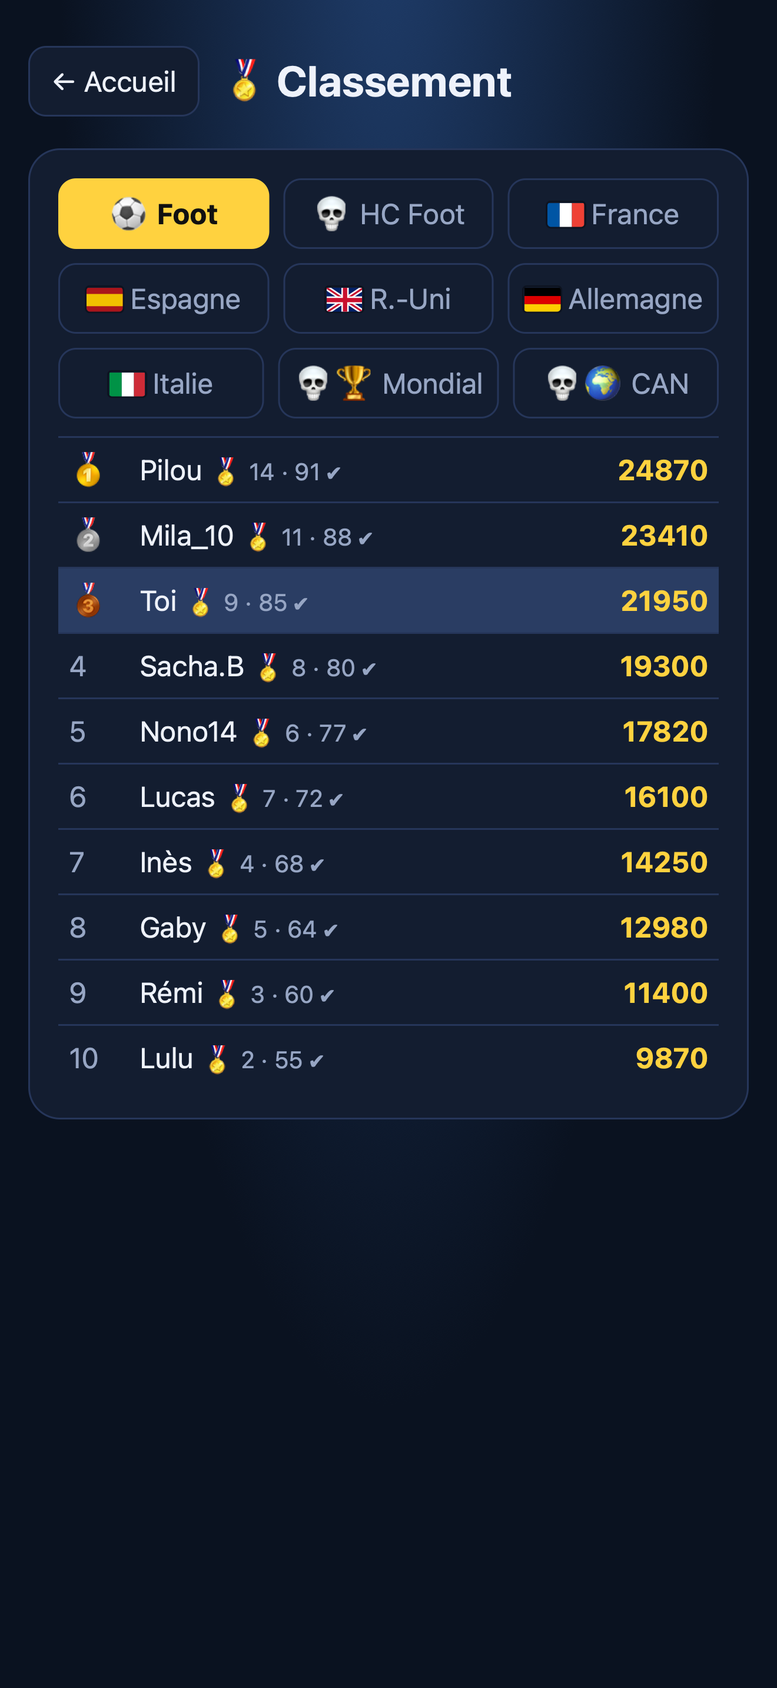
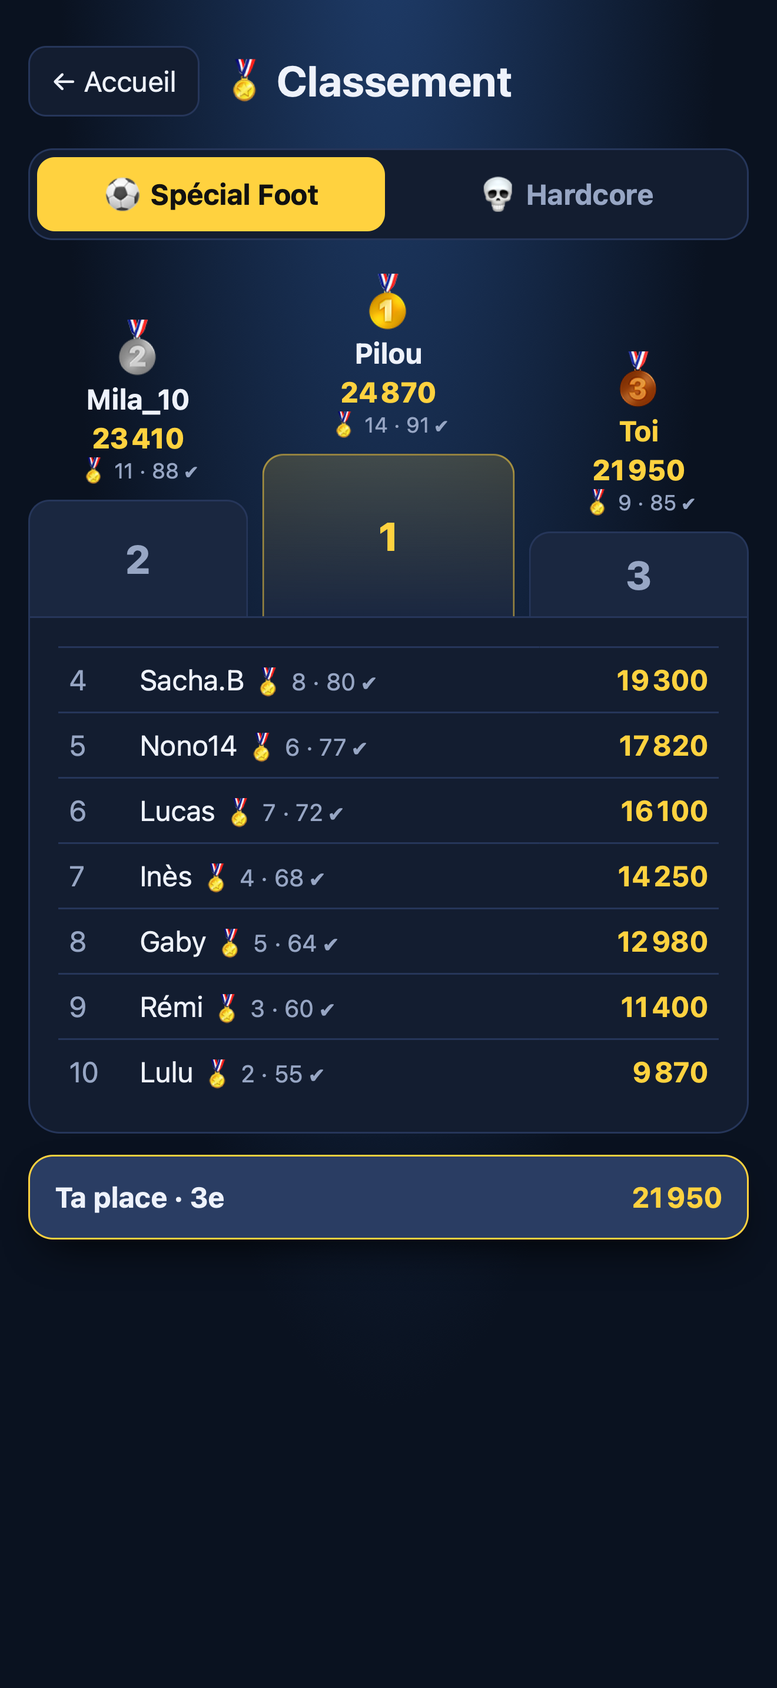
feat: fonctions iOS natives (vibrations, feuille de partage, écran Game Center, demande d'avis, raccourcis de l'icône) et nouvelle page Classement

Changed region(s): [[0.0311, 0.0931, 0.9318, 0.6517], [0.0311, 0.6517, 0.9629, 0.7448]]

diff --git a/SportQuizApp/Game/index.html b/SportQuizApp/Game/index.html
@@ -96,9 +96,33 @@
   /* classement */
   .card { background:var(--card); border:1px solid var(--line); border-radius:18px; padding:16px; margin-top:20px; }
   .card h2 { margin:0 0 10px; font-size:1.2rem; }
-  .tabs { display:flex; flex-wrap:wrap; gap:8px; margin-bottom:10px; }
-  .tabs button { flex:1 1 30%; white-space:nowrap; padding:8px; border-radius:10px; border:1px solid var(--line); background:transparent; color:var(--dim); cursor:pointer; }
-  .tabs button.on { background:var(--acc); color:#111; border-color:var(--acc); font-weight:700; }
+  /* Classement : Spécial Foot / Hardcore, puis une ligne de pays qui défile, podium, liste et ta place toujours visible */
+  .seg { display:grid; grid-template-columns:1fr 1fr; gap:4px; padding:4px; border-radius:14px; background:var(--card); border:1px solid var(--line); }
+  .seg button { padding:10px; border:0; border-radius:10px; background:transparent; color:var(--dim); font-size:1rem; font-weight:700; cursor:pointer; }
+  .seg button.on { background:var(--acc); color:#111; }
+  .chips { display:flex; gap:8px; overflow-x:auto; padding:10px 2px 2px; scrollbar-width:none;
+           -webkit-mask-image:linear-gradient(90deg, #000 85%, transparent); mask-image:linear-gradient(90deg, #000 85%, transparent); }
+  .chips::-webkit-scrollbar { display:none; }
+  .chips button { flex:0 0 auto; display:flex; align-items:center; gap:6px; padding:8px 14px; border-radius:999px; border:1px solid var(--line);
+                  background:var(--card); color:var(--txt); white-space:nowrap; cursor:pointer; }
+  .chips button.on { background:var(--acc); color:#111; border-color:var(--acc); font-weight:700; }
+  .chips button:last-child { margin-right:40px; }   /* le dernier pays reste lisible malgré le fondu */
+  .podium { display:grid; grid-template-columns:1fr 1.15fr 1fr; align-items:end; gap:8px; margin:18px 0 0; }
+  .pod { min-width:0; text-align:center; }
+  .pod b { display:block; font-size:2rem; line-height:1.1; }
+  .pod strong { display:block; overflow:hidden; text-overflow:ellipsis; white-space:nowrap; }
+  .pod .pts { color:var(--acc); font-weight:800; }
+  .pod small { display:block; color:var(--dim); font-size:.75rem; }
+  .pod .step { margin-top:8px; border-radius:12px 12px 0 0; border:1px solid var(--line); border-bottom:0; background:var(--card2);
+               display:grid; place-items:center; color:var(--dim); font-size:1.4rem; font-weight:800; }
+  .pod.p1 .step { height:92px; border-color:#ffd23f88; background:linear-gradient(#ffd23f2e, var(--card2)); color:var(--acc); }
+  .pod.p2 .step { height:66px; }
+  .pod.p3 .step { height:48px; }
+  .pod.me strong { color:var(--acc); }
+  #ranks .card { margin-top:0; border-top-left-radius:0; border-top-right-radius:0; }
+  #myRank { position:sticky; bottom:max(12px, env(safe-area-inset-bottom)); display:flex; align-items:center; gap:10px; margin-top:12px;
+            padding:12px 14px; border-radius:14px; background:#2a3d63; border:1px solid var(--acc); box-shadow:0 10px 30px -10px #000; font-weight:700; }
+  #myRank .pts { margin-left:auto; color:var(--acc); }
   table { width:100%; border-collapse:collapse; }
   td { padding:7px 6px; border-top:1px solid var(--line); }
   td:first-child { width:2.5em; color:var(--dim); }
@@ -190,6 +214,16 @@
            background:var(--acc); color:#111; font-weight:800; box-shadow:0 10px 30px -8px #000; transition:transform .35s; }
   #toast.on { transform:translate(-50%, 0); }
   #toast b { font-size:1.4rem; }
+  .setting { display:flex; align-items:center; justify-content:space-between; gap:12px; cursor:pointer; font-weight:700; }
+  .setting small { display:block; color:var(--dim); font-weight:400; font-size:.85rem; }
+  .toggle { appearance:none; -webkit-appearance:none; flex:0 0 auto; width:51px; height:31px; margin:0; border-radius:999px; background:var(--line);
+            position:relative; cursor:pointer; transition:background .2s; }
+  .toggle::after { content:''; position:absolute; top:2px; left:2px; width:27px; height:27px; border-radius:50%; background:#fff;
+                   box-shadow:0 2px 4px #0006; transition:transform .2s; }
+  .toggle:checked { background:var(--ok); }
+  .toggle:checked::after { transform:translateX(20px); }
+  .app, .app * { -webkit-user-select:none; user-select:none; -webkit-touch-callout:none; }
+  .app input { -webkit-user-select:text; user-select:text; }
   /* téléphone : la partie occupe toute la hauteur — infos en haut, question au centre,
      réponses en bas sous le pouce ; les écrans de fin sont centrés */
   @media (pointer: coarse) {
@@ -231,6 +265,10 @@
     <div class="who"><span class="avatar" id="whoAvatar">👤</span><span><strong id="whoName"></strong><small id="whoCount"></small></span></div>
     <button class="rankbtn" id="goBadges">🏅 Mes badges <small id="badgesCount"></small></button>
     <a class="rankbtn" id="contact" style="font-size:1rem;text-align:center;text-decoration:none;color:inherit">✉ Signaler un bug ou proposer une idée</a>
+    <div class="card hidden" id="settings">
+      <h2>⚙ Réglages</h2>
+      <label class="setting"><span>📳 Vibrations<small>Bonne réponse, erreur, badge débloqué</small></span><input type="checkbox" class="toggle" id="hapticsOn"></label>
+    </div>
     <div class="card hidden" id="account">
       <div id="accNew">
         <h2>💾 Garde tes badges</h2>
@@ -259,13 +297,14 @@
 
   <section id="ranks" class="hidden">
     <div class="head"><button class="back" data-back="home">← Accueil</button><h2>🏅 Classement</h2></div>
-    <div class="card" style="margin-top:0">
-      <div class="tabs">
-        <button data-tab="foot" class="on">⚽ Foot</button><button data-tab="hardfoot">💀 HC Foot</button>
-        <button data-tab="hardfr" data-flag="fr">France</button><button data-tab="hardes" data-flag="es">Espagne</button><button data-tab="harduk" data-flag="uk">R.-Uni</button><button data-tab="hardde" data-flag="de">Allemagne</button><button data-tab="hardit" data-flag="it">Italie</button><button data-tab="hardwc">💀🏆 Mondial</button><button data-tab="hardcan">💀🌍 CAN</button>
-      </div>
-      <table id="board"></table>
+    <div class="seg"><button data-kind="foot" class="on">⚽ Spécial Foot</button><button data-kind="hard">💀 Hardcore</button></div>
+    <div class="chips hidden" id="hardChips">
+      <button data-board="hardfoot">⚽ Tout le foot</button><button data-board="hardfr" data-flag="fr">France</button><button data-board="hardes" data-flag="es">Espagne</button><button data-board="harduk" data-flag="uk">Royaume-Uni</button><button data-board="hardde" data-flag="de">Allemagne</button><button data-board="hardit" data-flag="it">Italie</button><button data-board="hardwc">🏆 Mondial</button><button data-board="hardcan">🌍 CAN</button>
     </div>
+    <div class="podium" id="podium"></div>
+    <div class="card"><table id="board"></table></div>
+    <div id="myRank" class="hidden"></div>
+    <button class="btn alt hidden" id="gcBoard" style="width:100%;margin-top:12px">🎮 Ouvrir dans Game Center</button>
   </section>
 
   <section id="pick" class="hidden">
@@ -317,6 +356,7 @@
       <p id="saveMsg"></p>
       <table id="endBoard"></table>
     </div>
+    <button class="btn alt" id="share" style="width:100%;margin-top:12px">📤 Partager mon score</button>
     <div class="row"><button class="btn" id="again">Rejouer</button><button class="btn alt" id="toHome">Accueil</button></div>
   </section>
 
@@ -363,6 +403,11 @@ let mode, deck, idx, score, good, lives, timer, next, t0, saved, advClub, stage,
 
 // Dans l'app iOS, le classement passe par Game Center : pas de pseudo, le score part tout seul.
 const GC = !!window.__quizGC;
+// Fonctions natives de l'app iOS (vibrations, partage, Game Center, avis) ; sans effet sur le site web.
+const nativeApp = (type, data = {}) => {
+  if (type === 'haptic' && !load('quiz-haptics', true)) return;   // vibrations coupées dans les réglages du profil
+  try { webkit.messageHandlers.app.postMessage({ type, ...data }); } catch {}
+};
 let gcName = null;
 
 // Questions déjà posées sur ce navigateur : on ne les repose qu'une fois toutes les autres du même lot épuisées.
@@ -473,11 +518,13 @@ function answer(btn, ok, lvl) {
     const pts = points(lvl, left);
     score += pts; good++;
     $('score').textContent = score;
+    nativeApp('haptic', { kind: 'success' });
     $('feedback').textContent = `✅ Bravo ! +${pts} points`;
     $('feedback').style.color = 'var(--ok)';
   } else {
     btn?.classList.add('ko');
     lives--;
+    nativeApp('haptic', { kind: lives ? 'warning' : 'error' });
     let msg = btn ? '❌ Raté !' : '⏱ Temps écoulé !';
     if (mode === 'foot') { // l'erreur coûte la moitié de la valeur de la question
       const lost = Math.min(score, lvl * 50);
@@ -507,6 +554,9 @@ function finish() {
   }
   if (mode === 'adv') return advFinish();
   $('final').textContent = score + ' pts';
+  // Demande d'avis App Store après une belle partie, à partir de la 3e (iOS décide s'il l'affiche, 3 fois par an au plus)
+  const played = load('quiz-played', 0) + 1; store('quiz-played', played);
+  if (played >= 3 && (mode in HARD ? good >= 10 : good / deck.length >= .6)) setTimeout(() => nativeApp('review'), 1500);
   if (mode in HARD) {
     const msg = good >= 25 ? 'Inhumain ! 🐐' : good >= 12 ? 'Énorme ! 🔥' : good >= 5 ? 'Solide ! 💪' : `Le ${NAMES[mode]} porte bien son nom… 💀`;
     $('summary').textContent = `${good} bonne${good > 1 ? 's' : ''} réponse${good > 1 ? 's' : ''} d'affilée — ${msg} (${NAMES[mode]})`;
@@ -907,6 +957,7 @@ function unlock(id) {
   const [, icon, title] = BADGES.find(b => b[0] === id);
   $('toastIcon').innerHTML = flag(icon); $('toastText').textContent = `Badge débloqué : ${title}`;
   $('toast').classList.add('on');
+  nativeApp('haptic', { kind: 'success' });
   clearTimeout(toastTimer); toastTimer = setTimeout(() => $('toast').classList.remove('on'), 3000);
   reportBadges([id]);
   syncProfile();
@@ -1015,6 +1066,44 @@ function renderBoard(rows, table, me, m) {
     : '<tr><td colspan="3" class="empty">Personne pour l\'instant… à toi de jouer !</td></tr>';
 }
 
+// Page Classement : podium pour le top 3, liste à partir du 4e, et la place du joueur toujours visible en bas
+const fmt = n => Number(n).toLocaleString('fr-FR');
+const BOARDS = ['foot', 'hardfoot', 'hardfr', 'hardes', 'harduk', 'hardde', 'hardit', 'hardwc', 'hardcan'];
+let boardMode = 'foot', lastHard = 'hardfoot', boardReq = 0;
+function renderRanks(rows) {
+  const me = playerName(), mine = rows.findIndex(r => me && nameKey(r.name) === nameKey(me));
+  const sub = r => `🏅 ${r.badges || 0} · ${r.good} ✔`;
+  $('podium').innerHTML = rows.length ? [1, 0, 2].map(i => rows[i] ? `<div class="pod p${i + 1}${i === mine ? ' me' : ''}"><b>${['🥇', '🥈', '🥉'][i]}</b>` +
+    `<strong>${esc(rows[i].name)}</strong><span class="pts">${fmt(rows[i].score)}</span><small>${sub(rows[i])}</small><div class="step">${i + 1}</div></div>` : '<div></div>').join('') : '';
+  $('board').innerHTML = !rows.length ? '<tr><td colspan="3" class="empty">Personne pour l\'instant… à toi de jouer !</td></tr>'
+    : rows.slice(3).map((r, k) => `<tr class="${k + 3 === mine ? 'me' : ''}"><td>${k + 4}</td><td>${esc(r.name)} <small style="color:var(--dim)">${sub(r)}</small></td>` +
+      `<td>${fmt(r.score)}</td></tr>`).join('');
+  $('board').closest('.card').classList.toggle('hidden', rows.length > 0 && rows.length <= 3);
+  $('myRank').classList.toggle('hidden', mine < 0 && !(GC && !me));
+  $('myRank').innerHTML = mine >= 0 ? `<span>Ta place · ${mine + 1}${mine ? 'e' : 'er'}</span><span class="pts">${fmt(rows[mine].score)}</span>`
+    : 'Connecte-toi à Game Center pour apparaître au classement';
+}
+async function openBoard(m) {
+  boardMode = m; if (m !== 'foot') lastHard = m;
+  document.querySelectorAll('[data-kind]').forEach(b => b.classList.toggle('on', (b.dataset.kind === 'foot') === (m === 'foot')));
+  $('hardChips').classList.toggle('hidden', m === 'foot');
+  document.querySelectorAll('[data-board]').forEach(b => {
+    b.classList.toggle('on', b.dataset.board === m);
+    if (b.dataset.board === m) b.scrollIntoView({ block: 'nearest', inline: 'nearest' });
+  });
+  const req = ++boardReq;   // un changement rapide d'onglet ne laisse pas une ancienne réponse écraser la nouvelle
+  $('podium').innerHTML = ''; $('myRank').classList.add('hidden'); $('board').closest('.card').classList.remove('hidden');
+  $('board').innerHTML = '<tr><td class="empty">Chargement…</td></tr>';
+  try {
+    const r = await fetch('api/scores?mode=' + m);
+    if (!r.ok) throw 0;
+    const rows = await r.json();
+    if (req === boardReq) renderRanks(rows);
+  } catch {
+    if (req === boardReq) $('board').innerHTML = `<tr><td class="empty">${GC ? 'Classement Game Center indisponible' : 'Classement indisponible (serveur hors ligne)'}</td></tr>`;
+  }
+}
+
 async function loadBoard(m, table, me) {
   try {
     const r = await fetch('api/scores?mode=' + m);
@@ -1051,10 +1140,7 @@ async function sendScore(name) {
 /* ---------- Navigation ---------- */
 const goHome = () => show('home');
 // Classement : ouvre sur l'onglet du dernier mode joué (Foot par défaut)
-$('goRanks').onclick = () => {
-  show('ranks');
-  (document.querySelector(`[data-tab="${mode}"]`) || document.querySelector('[data-tab="foot"]')).click();
-};
+$('goRanks').onclick = () => { show('ranks'); openBoard(BOARDS.includes(mode) ? mode : 'foot'); };
 document.querySelectorAll('[data-mode]').forEach(b => b.onclick = () => start(b.dataset.mode));
 $('goHard').onclick = openPick; // Hardcore : foot ou pays (les questions des autres sports restent dans questions/<sport>.json)
 document.querySelectorAll('[data-flag]').forEach(b => b.innerHTML = flag(b.dataset.flag) + ' ' + esc(b.textContent));
@@ -1086,11 +1172,26 @@ $('goAdv').onclick = openLands;
 document.querySelectorAll('[data-back]').forEach(b => b.onclick = () => show(b.dataset.back));
 $('advBack').onclick = openClubs;
 $('advMap').onclick = () => openAdv(advClub);
-document.querySelectorAll('[data-tab]').forEach(b => b.onclick = () => {
-  document.querySelectorAll('[data-tab]').forEach(x => x.classList.toggle('on', x === b));
-  loadBoard(b.dataset.tab, $('board'));
-});
+document.querySelectorAll('[data-kind]').forEach(b => b.onclick = () => openBoard(b.dataset.kind === 'foot' ? 'foot' : lastHard));
+document.querySelectorAll('[data-board]').forEach(b => b.onclick = () => openBoard(b.dataset.board));
+$('gcBoard').classList.toggle('hidden', !GC);
+// Réglages du profil (app seulement : les vibrations n'existent pas sur le site)
+$('settings').classList.toggle('hidden', !GC);
+$('hapticsOn').checked = load('quiz-haptics', true);
+$('hapticsOn').onchange = () => { store('quiz-haptics', $('hapticsOn').checked); nativeApp('haptic', { kind: 'light' }); };
+$('gcBoard').onclick = () => nativeApp('gameCenter', { mode: boardMode });
+// Raccourcis de l'icône de l'app (appui long sur l'écran d'accueil de l'iPhone)
+window.__quizShortcut = a => ({ foot: () => start('foot'), hard: openPick, adv: openLands, ranks: () => $('goRanks').click() })[a]?.();
 $('again').onclick = () => start(mode);
+// Partage du score : feuille de partage iOS dans l'app, partage du navigateur (ou copie) sur le web
+const APP_URL = 'https://charlit.github.io/sportquiz/';
+$('share').onclick = () => {
+  const text = mode in HARD ? `💀 ${good} bonne${good > 1 ? 's' : ''} réponse${good > 1 ? 's' : ''} d'affilée en ${NAMES[mode]} (${score} points) sur Football Quiz ! Tu fais mieux ?`
+                            : `⚽ ${score} points au ${NAMES[mode]} sur Football Quiz (${good} bonnes réponses) ! Tu fais mieux ?`;
+  if (GC) return nativeApp('share', { text, url: APP_URL });
+  if (navigator.share) return navigator.share({ text, url: APP_URL }).catch(() => {});
+  navigator.clipboard?.writeText(`${text} ${APP_URL}`).then(() => { $('share').textContent = '✅ Copié !'; setTimeout(() => $('share').textContent = '📤 Partager mon score', 2000); });
+};
 // Abandon en 2 appuis (pas de confirm() : la WebView de l'app iOS ne l'affiche pas et répond « non »)
 let quitTimer;
 const disarmQuit = () => { clearTimeout(quitTimer); $('quit').classList.remove('armed'); $('quit').textContent = '✕'; };
@@ -1131,6 +1232,7 @@ if (GC) {
     .then(q => { const ok = validQuestions(q); if (ok) { Object.assign(QUESTIONS, ok); store('quiz-questions', ok); } })
     .catch(() => {});
 }
+if (GC) document.documentElement.classList.add('app');
 if (GC) {                                        // l'app prévient quand le joueur Game Center change
   $('saveForm').classList.add('hidden');
   document.querySelector('#end h2').textContent = 'Classement';

diff --git a/SportQuizApp/ContentView.swift b/SportQuizApp/ContentView.swift
@@ -1,6 +1,7 @@
 import SwiftUI
 import WebKit
 import GameKit
+import StoreKit
 
 // Le quiz est embarqué dans l'app (Game/index.html + questions.js) ; le classement passe par
 // Game Center, un classement par mode. Ces classements doivent exister dans App Store Connect
@@ -64,7 +65,10 @@ struct QuizWebView: UIViewRepresentable {
             config.userContentController.addUserScript(
                 WKUserScript(source: diagnosticScript, injectionTime: .atDocumentStart, forMainFrameOnly: true))
         }
+        config.userContentController.add(context.coordinator, name: "app")   // vibrations, partage, Game Center, avis
         let webView = WKWebView(frame: .zero, configuration: config)
+        webView.allowsLinkPreview = false   // pas d'aperçu de lien sur un appui long : comportement d'app, pas de page web
+        context.coordinator.webView = webView
         webView.uiDelegate = context.coordinator
         webView.navigationDelegate = context.coordinator
         webView.isOpaque = false
@@ -81,8 +85,30 @@ struct QuizWebView: UIViewRepresentable {
     func updateUIView(_ webView: WKWebView, context: Context) {}
 
     // Sans ce délégué, confirm() (« Abandonner la partie ? ») répond toujours non dans une WKWebView.
-    final class Coordinator: NSObject, WKUIDelegate, WKNavigationDelegate, WKScriptMessageHandler {
+    final class Coordinator: NSObject, WKUIDelegate, WKNavigationDelegate, WKScriptMessageHandler, GKGameCenterControllerDelegate {
         let scheme = QuizSchemeHandler()
+        weak var webView: WKWebView?
+        private var loaded = false
+        private var shortcutObserver: NSObjectProtocol?
+
+        override init() {
+            super.init()
+            shortcutObserver = NotificationCenter.default.addObserver(forName: Shortcuts.received, object: nil, queue: .main) { [weak self] _ in
+                self?.runPendingShortcut()
+            }
+        }
+
+        // Raccourci de l'icône : exécuté dès que la page est prête (au lancement, elle ne l'est pas encore).
+        private func runPendingShortcut() {
+            guard loaded, let action = Shortcuts.pending else { return }
+            Shortcuts.pending = nil
+            webView?.evaluateJavaScript("window.__quizShortcut && __quizShortcut('\(action)')")
+        }
+
+        func webView(_ webView: WKWebView, didFinish navigation: WKNavigation!) {
+            loaded = true
+            runPendingShortcut()
+        }
 
         // Les liens hors du quiz (mailto: du bouton de contact, http…) s'ouvrent dans l'app iOS adaptée :
         // la WKWebView ne sait pas les charger elle-même et le clic resterait sans effet.
@@ -96,7 +122,40 @@ struct QuizWebView: UIViewRepresentable {
         }
 
         func userContentController(_ controller: WKUserContentController, didReceive message: WKScriptMessage) {
-            print("[quiz]", message.body)
+            guard message.name == "app", let body = message.body as? [String: Any], let type = body["type"] as? String else {
+                return print("[quiz]", message.body)
+            }
+            switch type {
+            case "haptic":   // bonne réponse, erreur, badge
+                switch body["kind"] as? String {
+                case "success": UINotificationFeedbackGenerator().notificationOccurred(.success)
+                case "warning": UINotificationFeedbackGenerator().notificationOccurred(.warning)
+                case "error": UINotificationFeedbackGenerator().notificationOccurred(.error)
+                default: UIImpactFeedbackGenerator(style: .light).impactOccurred()
+                }
+            case "share":    // feuille de partage iOS (Messages, WhatsApp, Instagram…)
+                var items: [Any] = [body["text"] as? String ?? ""]
+                if let url = (body["url"] as? String).flatMap(URL.init(string:)) { items.append(url) }
+                let sheet = UIActivityViewController(activityItems: items, applicationActivities: nil)
+                if let webView { sheet.popoverPresentationController?.sourceView = webView }
+                if let webView { present(sheet, from: webView, orElse: {}) }
+            case "gameCenter":   // écran Game Center natif, ouvert sur le classement affiché
+                guard GKLocalPlayer.local.isAuthenticated, let webView else { return }
+                let mode = body["mode"] as? String ?? "foot"
+                let gc = quizModes.contains(mode)
+                    ? GKGameCenterViewController(leaderboardID: leaderboardID(mode), playerScope: .global, timeScope: .allTime)
+                    : GKGameCenterViewController(state: .leaderboards)
+                gc.gameCenterDelegate = self
+                present(gc, from: webView, orElse: {})
+            case "review":   // demande d'avis App Store (iOS limite son affichage à 3 fois par an)
+                if let scene = webView?.window?.windowScene { SKStoreReviewController.requestReview(in: scene) }
+            default:
+                print("[quiz] message inconnu", type)
+            }
+        }
+
+        func gameCenterViewControllerDidFinish(_ controller: GKGameCenterViewController) {
+            controller.dismiss(animated: true)
         }
 
         func webView(_ webView: WKWebView, runJavaScriptConfirmPanelWithMessage message: String,
@@ -116,7 +175,7 @@ struct QuizWebView: UIViewRepresentable {
 
         // Présente l'alerte au-dessus de ce qui est déjà affiché (ex. une feuille Game Center).
         // Si c'est impossible, on répond tout de suite : sinon la page reste figée à attendre la réponse.
-        private func present(_ alert: UIAlertController, from view: UIView, orElse fallback: @escaping () -> Void) {
+        private func present(_ alert: UIViewController, from view: UIView, orElse fallback: @escaping () -> Void) {
             var top = view.window?.rootViewController
             while let next = top?.presentedViewController, !next.isBeingDismissed { top = next }
             guard let top, top.viewIfLoaded?.window != nil, !top.isBeingDismissed else {

diff --git a/SportQuizApp/SportQuizApp.swift b/SportQuizApp/SportQuizApp.swift
@@ -1,10 +1,44 @@
 import SwiftUI
+import UIKit
 
 @main
 struct SportQuizApp: App {
+    @UIApplicationDelegateAdaptor(AppDelegate.self) private var appDelegate
+
     var body: some Scene {
         WindowGroup {
             ContentView()
         }
+    }
+}
+
+// Raccourcis de l'icône (appui long sur l'écran d'accueil) : Spécial Foot, Hardcore, Aventure, Classement.
+// Définis dans Info.plist (UIApplicationShortcutItems) ; l'action est transmise à la page par QuizWebView.
+enum Shortcuts {
+    static let received = Notification.Name("QuizShortcut")
+    static var pending: String?
+
+    static func handle(_ item: UIApplicationShortcutItem) {
+        pending = item.type.components(separatedBy: ".").last
+        NotificationCenter.default.post(name: received, object: nil)
+    }
+}
+
+final class AppDelegate: NSObject, UIApplicationDelegate {
+    func application(_ application: UIApplication, configurationForConnecting session: UISceneSession,
+                     options: UIScene.ConnectionOptions) -> UISceneConfiguration {
+        if let item = options.shortcutItem { Shortcuts.handle(item) }   // app lancée par un raccourci
+        let config = UISceneConfiguration(name: nil, sessionRole: session.role)
+        config.delegateClass = SceneDelegate.self
+        return config
+    }
+}
+
+final class SceneDelegate: NSObject, UIWindowSceneDelegate {
+    // app déjà ouverte en arrière-plan
+    func windowScene(_ windowScene: UIWindowScene, performActionFor shortcutItem: UIApplicationShortcutItem,
+                     completionHandler: @escaping (Bool) -> Void) {
+        Shortcuts.handle(shortcutItem)
+        completionHandler(true)
     }
 }

diff --git a/scripts/make-screenshots.swift b/scripts/make-screenshots.swift
@@ -16,7 +16,7 @@ let shots: [(String, [String: String], String)] = [
     ("2-question", ["quiz-badges": badges], "start('foot'); idx = 41; score = 8340; good = 39; lives = 2; $('score').textContent = score; ask();"),
     ("3-aventure-carte", ["quiz-adv": js(states["partial"]!), "quiz-badges": badges], "advLand = 'fr'; cityFilter = null; openClubs();"),
     ("4-aventure-pays", ["quiz-adv": js(states["frdone"]!), "quiz-adv-open": js(["fr", "es"]), "quiz-badges": badges], "openLands();"),
-    ("5-classement", ["quiz-badges": badges], "show('ranks'); renderBoard(\(rows), $('board'), 'Toi', 'foot');"),
+    ("5-classement", ["quiz-badges": badges], "__quizPlayer('Toi'); window.fetch = async () => ({ ok: true, json: async () => \(rows) }); show('ranks'); openBoard('foot');"),
     ("6-badges", ["quiz-badges": badges], "window.__quizPlayer && __quizPlayer('Toi'); $('goBadges').click();"),
 ]
 
